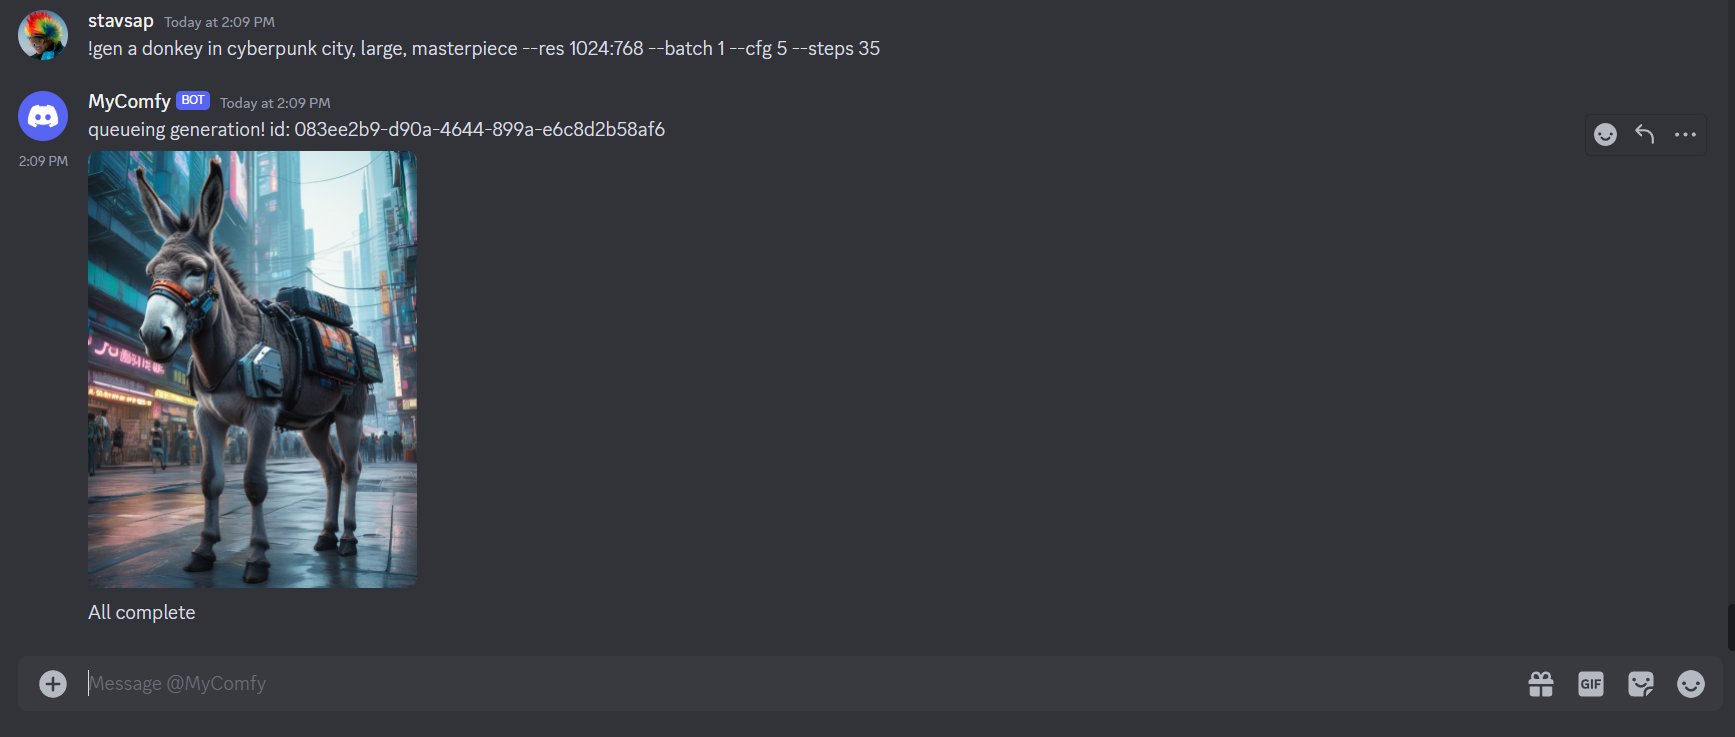
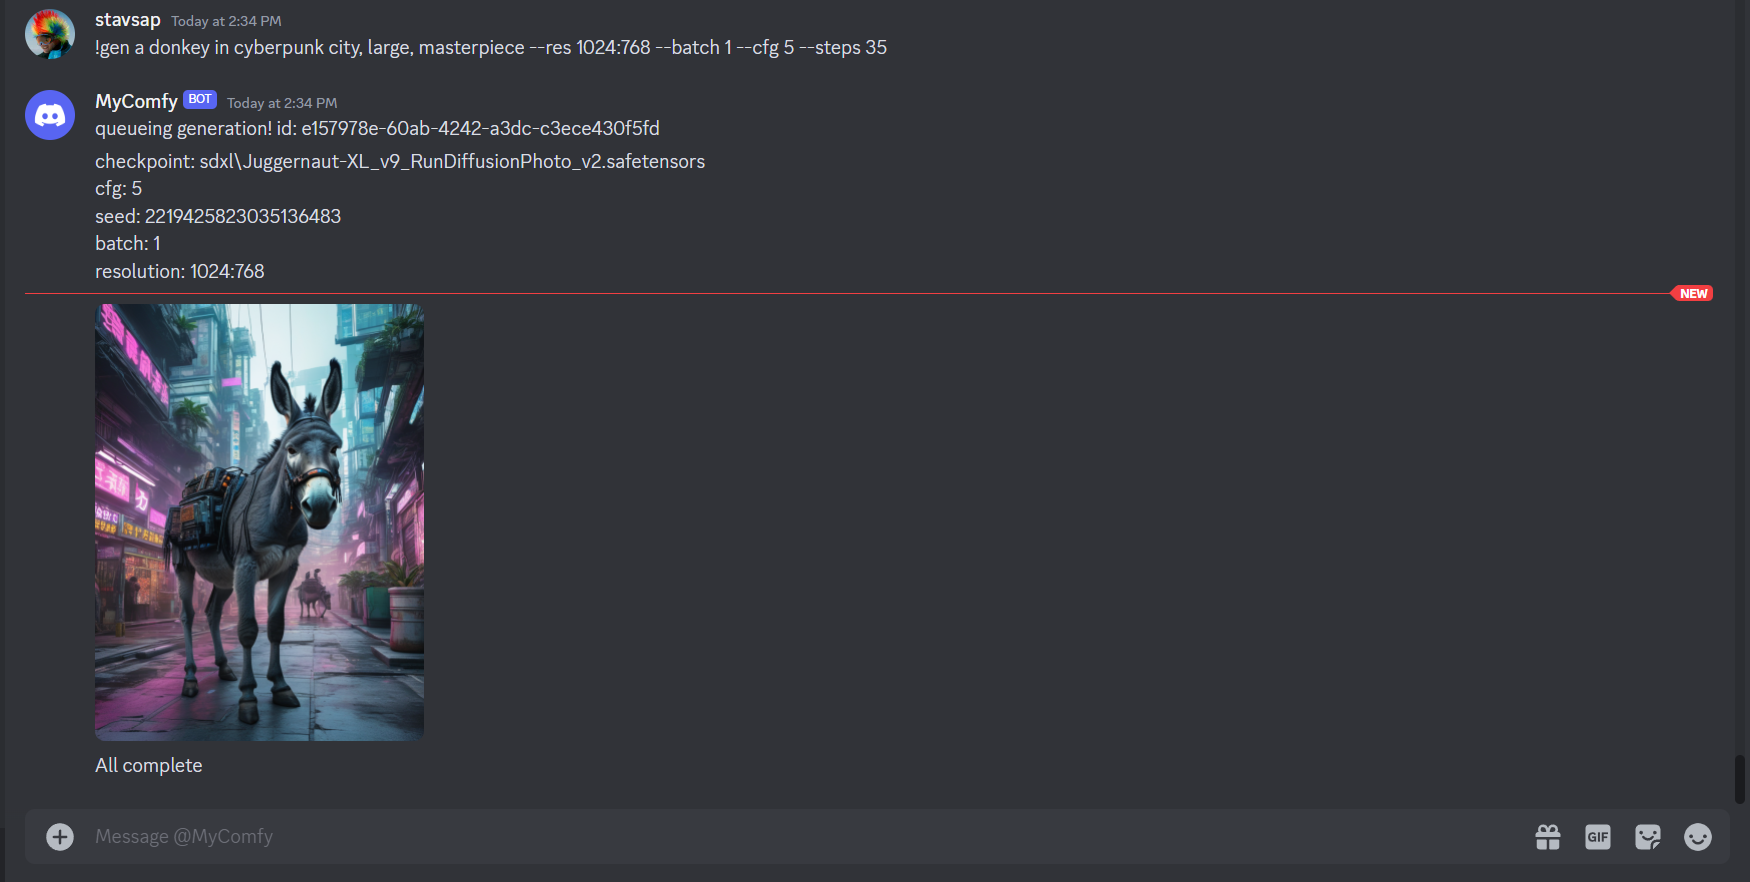
Add describe to prompt handler

diff --git a/comfy_bot.py b/comfy_bot.py
@@ -49,7 +49,8 @@ async def on_message(message):
     # Check if the message starts with a specific command or trigger
     if message.content.startswith("!gen"):
 
-        prompt = get_workflow_handler().handle(message.content[len("!gen "):])
+        prompt_handler = get_workflow_handler()
+        prompt = prompt_handler.handle(message.content[len("!gen "):])
 
         ws = websocket.WebSocket()
 
@@ -58,7 +59,7 @@ async def on_message(message):
         # await message.channel.send(
         #     "queueing generation, seed: " + str(prompt["3"]["inputs"]["seed"]) + " with 50 steps")
 
-        images = await get_images(ws, prompt, message.channel)
+        images = await get_images(ws, prompt, message.channel, prompt_handler)
 
         for node_id, image_list in images.items():
 

diff --git a/comfy_workload.py b/comfy_workload.py
@@ -128,7 +128,21 @@ class WorkflowHandler:
             pass
 
         return prompt
+    def describe(self, prompt):
+        seed = prompt["3"]["inputs"]["seed"]
+        cfg = prompt["3"]["inputs"]["cfg"]
+        checkpoint = prompt["4"]["inputs"]["ckpt_name"]
+        batch = prompt["5"]["inputs"]["batch_size"]
+        res = prompt["5"]["inputs"]["height"] + ":" + prompt["5"]["inputs"]["width"]
 
+        description = f'''
+checkpoint: {checkpoint}
+cfg: {cfg}
+seed: {seed}
+batch: {batch}
+resolution: {res}
+'''
+        return description
     def _res(self, value, workflow):
         split = value.split(':')
         workflow["5"]["inputs"]["height"] = split[0]

diff --git a/comfy_client.py b/comfy_client.py
@@ -36,10 +36,12 @@ def get_checkpoints():
     with urllib.request.urlopen("http://{}/object_info/CheckpointLoaderSimple".format(SERVER_ADDRESS)) as response:
         return json.loads(response.read())
 
-async def get_images(ws, prompt, channel=None):
+async def get_images(ws, prompt, channel=None, prompt_handler=None):
     prompt_id = queue_prompt(prompt)['prompt_id']
     if channel is not None:
         await channel.send("queueing generation! id: " + prompt_id)
+    if prompt_handler is not None:
+        await channel.send(prompt_handler.describe(prompt))
     output_images = {}
     current_node = ""
     while True:
